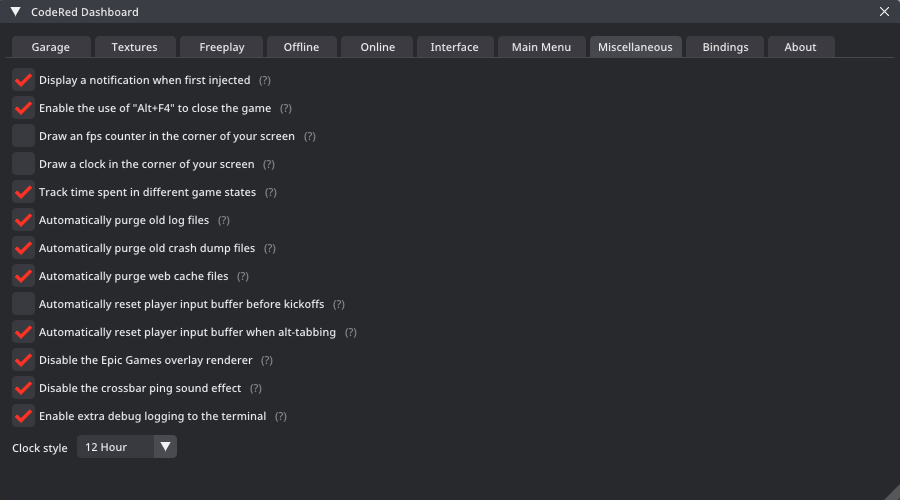
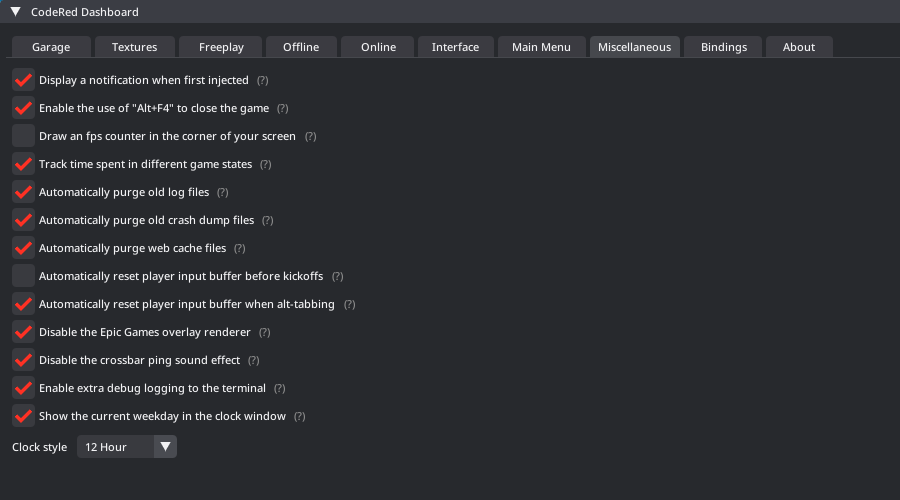
Initial Commit

diff --git a/changelog.html b/changelog.html
@@ -62,6 +62,7 @@
 		    <nav id="docs-nav" class="docs-nav navbar">
 			    <ul class="section-items list-unstyled nav flex-column pb-3">
                     <li class="nav-item section-title mt-3"><a class="nav-link scrollto" href="#section-3"><span class="theme-icon-holder me-2"><i class="fas fa-book"></i></span>Module Changelog</a></li>
+                    <li class="nav-item"><a class="nav-link scrollto" href="#item-3-9-9">Version 2.9.9</a></li>
                     <li class="nav-item"><a class="nav-link scrollto" href="#item-3-9-8">Version 2.9.8</a></li>
                     <li class="nav-item"><a class="nav-link scrollto" href="#item-3-9-7">Version 2.9.7</a></li>
                     <li class="nav-item"><a class="nav-link scrollto" href="#item-3-9-6">Version 2.9.6</a></li>
@@ -217,11 +218,19 @@
                 <article class="docs-article" id="section-3">
                     <h1 class="docs-heading">Changelog</h1>
 
+                        <section class="docs-section" id="item-3-9-9">
+                        <h2 class="section-heading">Version 2.9.9 (March 23rd 2026)</h2>                  
+                            <h5>- Added a new setting <code>imgui_clock_weekday</code>, which will also show what day it is in the clock overlay window.</h5>
+                            <h5>- Fixed the clock at midnight displaying "00:00 AM" instead of "12:00 AM" if you had the "imgui_clock_24" setting set to false.</h5>
+                            <h5>- Updated the internal SDK to the latest version of Rocket League.</h5>
+                        </section>
+
                         <section class="docs-section" id="item-3-9-8">
                         <h2 class="section-heading">Version 2.9.8 (March 20th 2026)</h2>                  
                             <h5>- Added a new setting <code>interface_disable_playlist_mmr</code>, which disables the new built in mmr on the playlist selection screen.</h5>
                             <h5>- The decal dropdown box in the garage tab now only shows decals that can be equipped to your current car, as opposed to every decal in the game.</h5>
                             <h5>- Removed the <code>imgui_draw_clock</code> setting, if you want to use the clock just manually open the window yourself.</h5>
+                            <h5>- Renamed the `interface_vote_to_forfiet` command to `interface_vote_to_forfeit`, fixing a typo.</h5>
                             <h5>- Fixed nested TArrays in the reflector window not showing how many elements are in the array in their name.</h5>
                             <h5>- Fixed a rare crash that could happen upon injection related to parsing your actual loadout to a CodeRed one.</h5>
                             <h5>- Fixed the new built in mmr on playlists being all out of whack on the main menu.</h5>

diff --git a/documentation.html b/documentation.html
@@ -278,6 +278,10 @@
                                         <td>Use a 24 hour clock for timestamps, instead of a 12 hour AM/PM one.</td>
                                     </tr>
                                     <tr>
+                                        <th class="theme-bg-light"><b>imgui_clock_weekday &lttrue-false&gt</b></th>
+                                        <td>Display the current weekday in the clock overlay.</td>
+                                    </tr>
+                                    <tr>
                                         <th class="theme-bg-light"><b>imgui_clock_corner &lt1-4&gt</b></th>
                                         <td>The corner position for the clock window to render in.</td>
                                     </tr>
@@ -1116,7 +1120,7 @@
                                     </tr>
                                     <tr>
                                         <th class="theme-bg-light"><b>garage_remove_elon &lttrue-false&gt</b></th>
-                                        <td>Replaces all Elon Musk products on players loadouts that you encounter online with their default counterparts.</td>
+                                        <td>Replaces all Elon Musk products on players loadouts that you encounter online with their default counterparts, does not apply to yourself</td>
                                     </tr>
                                     <tr>
                                         <th class="theme-bg-light"><b>garage_hide_loadouts &lttrue-false&gt</b></th>
@@ -2392,7 +2396,7 @@
                     <section class="docs-section" id="item-5-0-3">
                         <h2 class="section-heading">Clock</h2>
                         <h4>Window Name: <code>clock</code></h4>
-                        <p>This window simply draws a clock in the top left corner of your screen. You can change the format from 24 hour to 12 hour with the <code>imgui_clock_24</code> setting.</p>
+                        <p>This window simply draws a clock in the top left corner of your screen. You can change the format from 24 hour to 12 hour with the <code>imgui_clock_24</code> setting, and <code>imgui_clock_weekday</code> to show the weekday.</p>
                         <p>Hold ctrl and double right click the window to change its position.</p>
 
                         <div class="simplelightbox-gallery row mb-3">